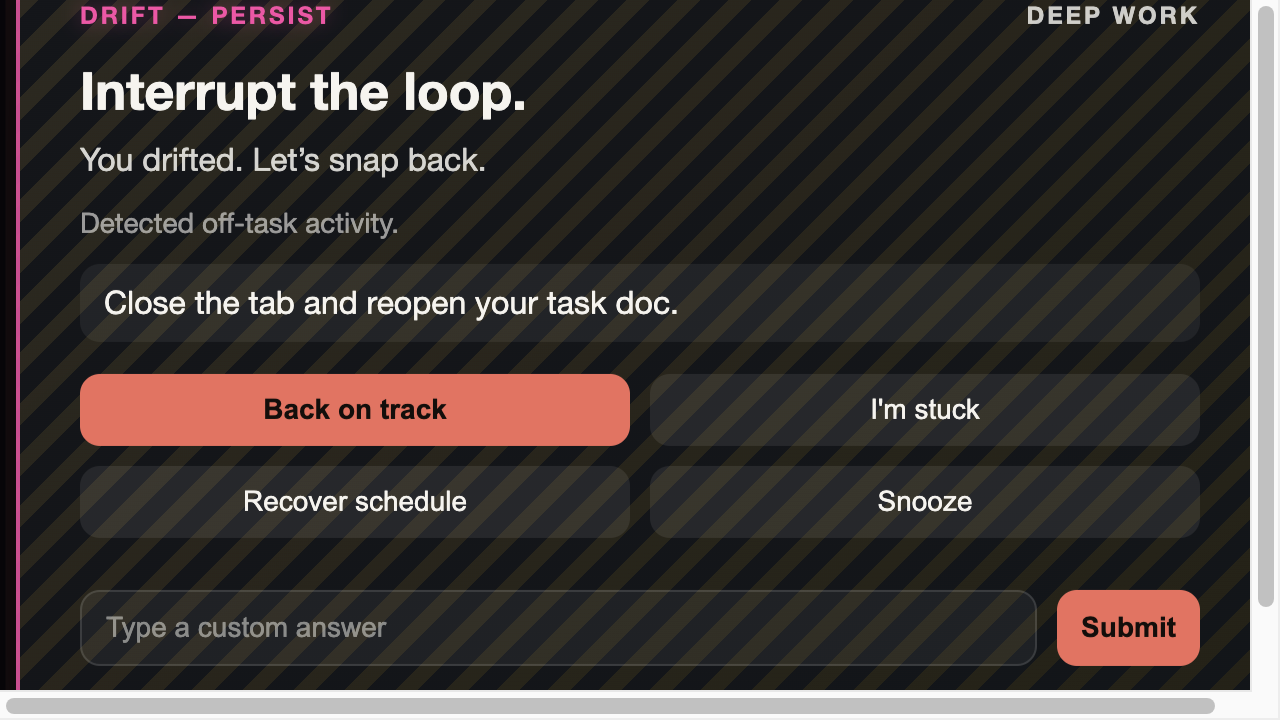
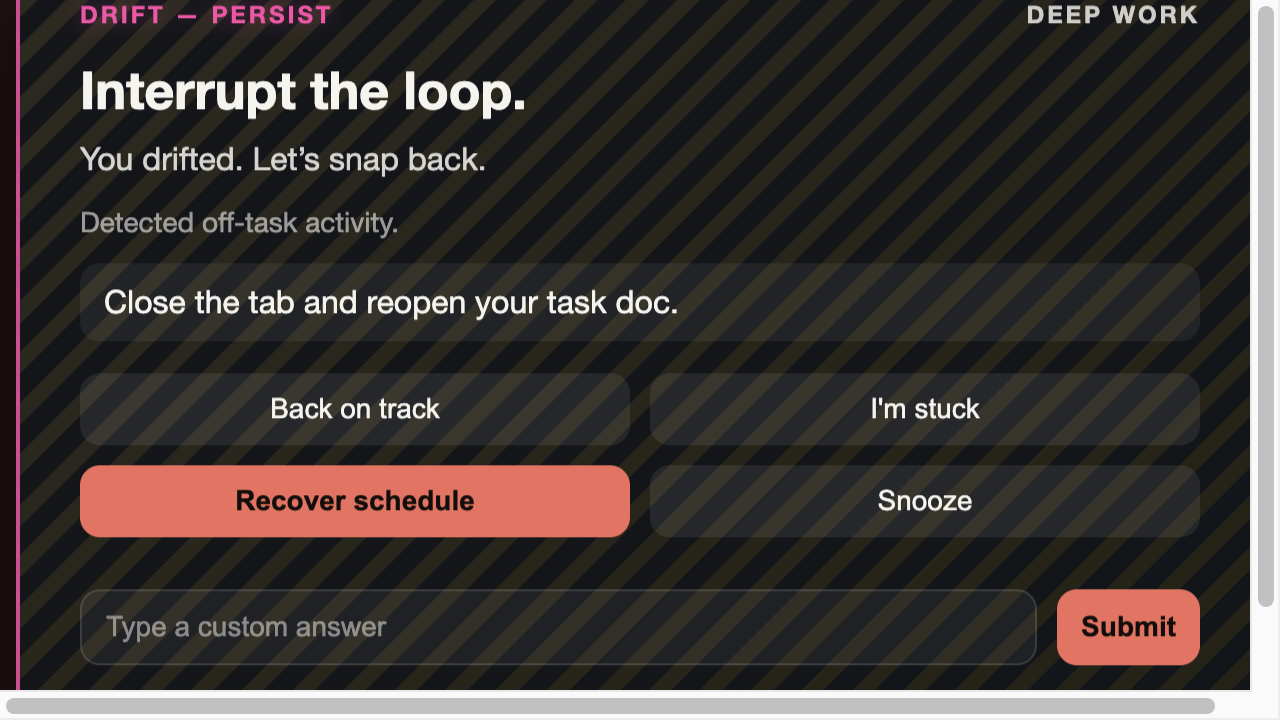
Overlay: make Recover primary on DRIFT_PERSIST

diff --git a/overlay/overlay.js b/overlay/overlay.js
@@ -5,6 +5,7 @@ const headline = document.getElementById("headline");
 const humanLine = document.getElementById("humanLine");
 const diagnosis = document.getElementById("diagnosis");
 const nextAction = document.getElementById("nextAction");
+const enterHint = document.getElementById("enterHint");
 const snooze = document.getElementById("snoozeReason");
 const miniPlan = document.getElementById("miniPlan");
 const choiceButtons = document.getElementById("choiceButtons");
@@ -121,6 +122,20 @@ function showOverlay(payload) {
       : focusKey === "recoverBtn"
         ? recoverBtn
         : backBtn;
+
+  // Visual emphasis: in DRIFT_PERSIST, bias the user toward "Recover schedule".
+  // Keep this deterministic and tied to the same logic as focus selection.
+  backBtn.classList.toggle("primary", focusKey === "backBtn");
+  recoverBtn.classList.toggle("primary", focusKey === "recoverBtn");
+
+  if (enterHint) {
+    enterHint.textContent =
+      focusKey === "recoverBtn"
+        ? "Enter: Recover schedule"
+        : focusKey === "alignText"
+          ? "Enter: Submit"
+          : "Enter: Back on track";
+  }
 
   // Defer until after layout so focus lands deterministically (and doesn't scroll).
   requestAnimationFrame(() => {

diff --git a/overlay/overlay.html b/overlay/overlay.html
@@ -39,7 +39,7 @@
         </div>
         <div id="miniPlan" class="mini-plan hidden"></div>
         <div class="footer">
-          <span>Enter: Back on track</span>
+          <span id="enterHint">Enter: Back on track</span>
           <span>Esc: Snooze</span>
           <span>Cmd/Ctrl+Shift+P: Pause 15</span>
         </div>
